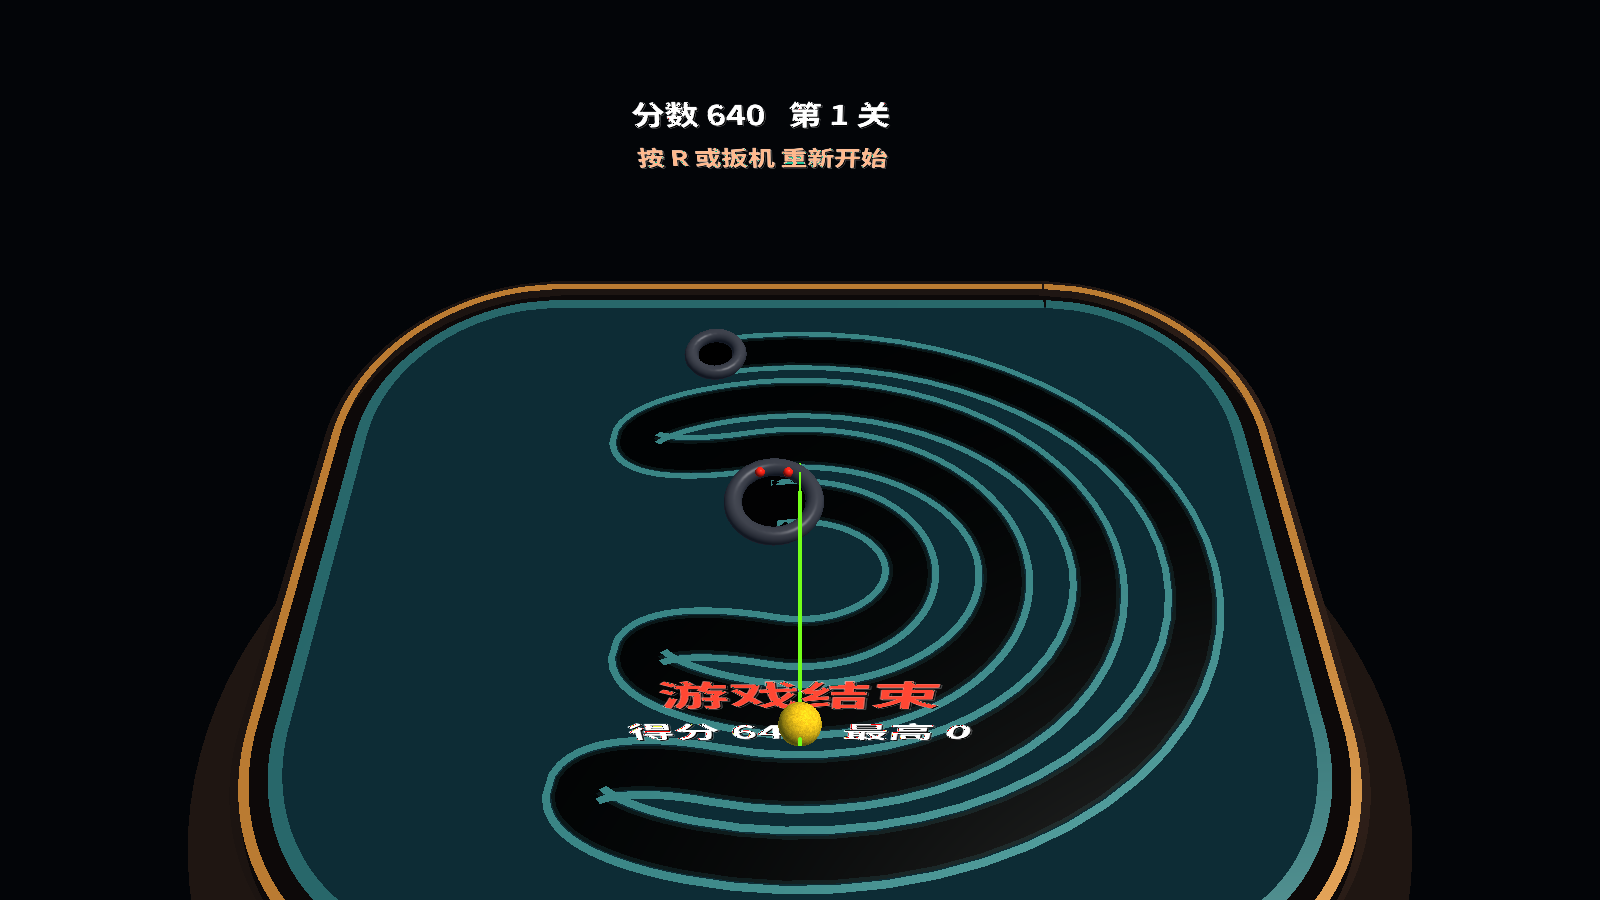
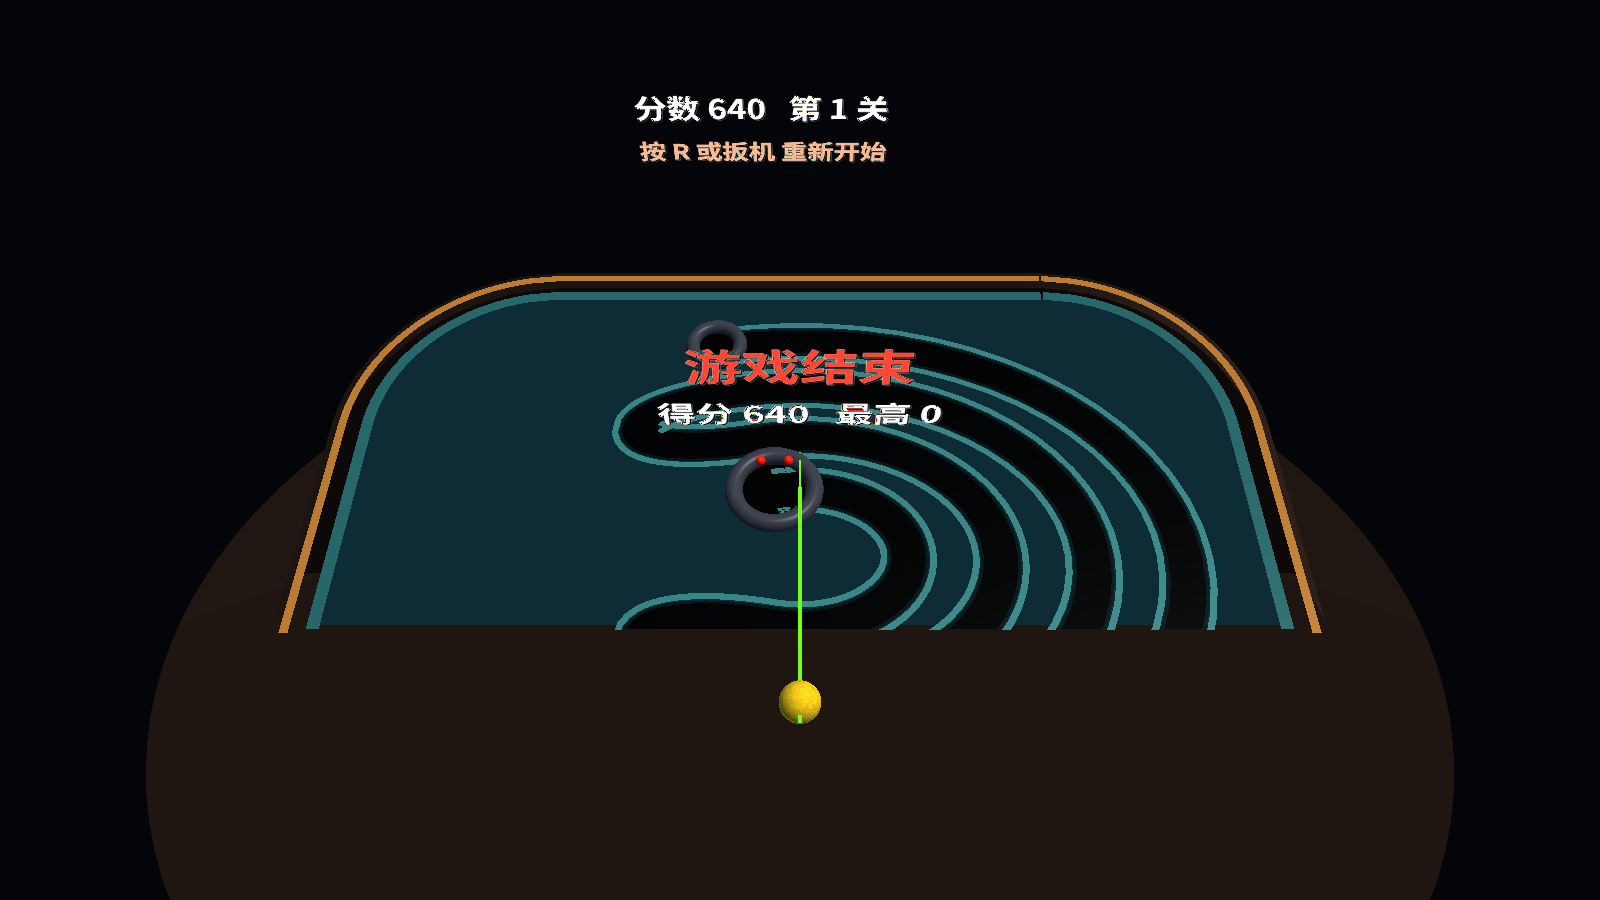
feat(vr): 桌面改用自有坐标系（原点=毡面中心，默认高 0.5 m、倾角 20°）
按用户定义重做摆放：
- 桌面原点取毡面中心；「桌面高度」= 原点到地面的距离，初始 0.50 m
- 倾角绕同一个原点旋转（去掉按近边当支点和 farRise 封顶），角度即设定值
- 桌子与盘面作为同一刚体一起转，默认 near 0.24 / centre 0.50 / far 0.76 m
- 右手摇杆直接改桌面高度，限幅 0.15–1.65 m（原 ±0.65/0.85 的行程）
- 调试行改为 height=，每关日志打印 table: height / tilt / felt near,centre,far / slab top
- 结算/结束文字从近边挪到毡面中部（近边现在是全盘最低处，文字会被盘沿挡住）
- 桌面相机目标下移（0.90→0.42），文档截图重新生成；README 记录坐标系定义

Changed region(s): [[0.0938, 0.28, 0.9062, 1.0], [0.375, 0.0933, 0.5625, 0.1867]]

diff --git a/cmd/zuma/main.go b/cmd/zuma/main.go
@@ -34,7 +34,7 @@ type app struct {
 	board        mgl32.Mat4
 	boardInv     mgl32.Mat4
 	placedBoard  game.Board
-	sceneLift    float32 // right stick: whole scene up/down, metres
+	tableY       float32 // table height: floor to the table origin, metres
 	winAdvanceAt float64 // win screen: when the next level loads
 	tiltDeg      float32 // left stick: board tilt, degrees
 	lastAimT     float64
@@ -84,12 +84,17 @@ func pressForward(d mgl32.Vec3, deg float32) mgl32.Vec3 {
 }
 
 const (
-	vrBoardY     = 0.86
-	vrBoardZ     = -1.55
-	vrBoardScale = 0.55
+	// The table has its own frame. Its origin is the centre of the felt; the
+	// height below is the distance from that origin to the floor, the right
+	// stick moves it, and the tilt turns the whole table about the same origin.
+	tableHeight0 = 0.50
+	tableMinY    = 0.15
+	tableMaxY    = 1.65
+	tableZ       = -1.55
+	tableScale   = 0.55
 	// The playfield leans toward the player: the near edge stays on the table
 	// and the far edge rises, like a pinball table.
-	boardTiltDeg = 20
+	tableTiltDeg = 20
 	boardHingeZ  = 1.55
 )
 
@@ -175,7 +180,8 @@ func main() {
 	}
 	renderer.StartSplash(splashStart, *title)
 
-	a.tiltDeg = float32(boardTiltDeg)
+	a.tiltDeg = float32(tableTiltDeg)
+	a.tableY = tableHeight0
 	a.placeBoard()
 
 	// Paint the loading cover before SteamVR comes up: vr.Init blocks for a
@@ -427,7 +433,10 @@ func cameraVP(cam camera, w, h int) (mgl32.Mat4, mgl32.Vec3) {
 	if w == 0 || h == 0 {
 		w, h = 1, 1
 	}
-	target := mgl32.Vec3{0, 0.90, -0.15}
+	// The desktop window renders the board in its own frame (no table offset),
+	// tilted about its centre; the target sits below the origin so the felt
+	// stays framed now that the tilt no longer lifts the board.
+	target := mgl32.Vec3{0, 0.42, -0.15}
 	cp := math.Cos(cam.pitch)
 	eye := mgl32.Vec3{
 		target[0] + float32(cam.dist*cp*math.Sin(cam.yaw)),
@@ -470,7 +479,7 @@ func (a *app) renderMirror(now float64) {
 		a.r.DrawSplash(proj.Mul4(view), render.SplashPanel(), now)
 		return
 	}
-	a.r.DrawStatic(proj.Mul4(view), a.tableWorld)
+	a.r.DrawStatic(proj.Mul4(view), a.board)
 	a.r.Draw(proj.Mul4(view), cam, a.board, a.g, now, a.aimO, a.aimD, a.aimOK, a.handPose, a.handPoseOK)
 }
 
@@ -606,8 +615,8 @@ func (a *app) updateVRAim(now float64) {
 		}
 		a.lastAimT = now
 		if v := st.AxisY; math.Abs(float64(v)) > 0.2 {
-			a.sceneLift += v * liftSpeed * float32(dt)
-			a.sceneLift = float32(math.Max(-0.65, math.Min(0.85, float64(a.sceneLift))))
+			a.tableY += v * liftSpeed * float32(dt)
+			a.tableY = float32(math.Max(tableMinY, math.Min(tableMaxY, float64(a.tableY))))
 			a.placeBoard()
 		}
 		// Left stick up/down trims the board tilt: up flattens, down steepens.
@@ -658,36 +667,28 @@ func (a *app) updateVRAim(now float64) {
 	a.logVR(now, st, ok, dev)
 }
 
-// placeBoard builds the board transform for the current level. The tilt pivots
-// on the board's own near edge, so the felt always meets the table no matter how
-// big the random board is; the angle is capped so a big board does not push its
-// far edge up towards eye height.
+// placeBoard builds the table frame for the current level: the table's origin
+// is the centre of the felt, at a.tableY above the floor, and the tilt turns
+// the whole table (slab and playfield alike) about that origin. The table is
+// one rigid body, so the felt can never sink into its own slab.
 func (a *app) placeBoard() {
 	bd := a.g.Board
-	hinge := bd.HalfH()
 	deg := a.tiltDeg
-	if hinge > 0.01 {
-		const farRise = 0.85 // metres, the height the first tilted board gave
-		if s := farRise / (2 * hinge * vrBoardScale); s < 1 {
-			if lim := float32(math.Asin(float64(s)) * 180 / math.Pi); lim < deg {
-				deg = lim
-			}
-		}
-	}
-	tilt := mgl32.Translate3D(0, 0, hinge).
-		Mul4(mgl32.HomogRotate3DX(mgl32.DegToRad(deg))).
-		Mul4(mgl32.Translate3D(0, 0, -hinge))
-	a.tableWorld = mgl32.Translate3D(0, vrBoardY+a.sceneLift, vrBoardZ).
-		Mul4(mgl32.Scale3D(vrBoardScale, vrBoardScale, vrBoardScale))
+	tilt := mgl32.HomogRotate3DX(mgl32.DegToRad(deg))
 	a.tilt = tilt
-	a.board = a.tableWorld.Mul4(tilt)
+	a.tableWorld = mgl32.Translate3D(0, a.tableY, tableZ).
+		Mul4(tilt).
+		Mul4(mgl32.Scale3D(tableScale, tableScale, tableScale))
+	// With the origin at the felt's centre the board and the table share one
+	// frame: there is no hinge offset left to apply.
+	a.board = a.tableWorld
 	a.boardInv = a.board.Inv()
 	if bd != a.placedBoard {
-		near := a.board.Mul4x1(mgl32.Vec4{0, 0, hinge, 1}).Y()
-		centre := a.board.Mul4x1(mgl32.Vec4{0, 0, 0, 1}).Y()
-		far := a.board.Mul4x1(mgl32.Vec4{0, 0, -hinge, 1}).Y()
-		log.Printf("board %.2fx%.2f: tilt %.1f deg, felt near %.2f m, centre %.2f m, far %.2f m (table top %.2f m)",
-			bd.W, bd.H, deg, near, centre, far, vrBoardY+a.sceneLift-0.10*vrBoardScale)
+		half := bd.HalfH()
+		near := a.board.Mul4x1(mgl32.Vec4{0, 0, half, 1}).Y()
+		far := a.board.Mul4x1(mgl32.Vec4{0, 0, -half, 1}).Y()
+		log.Printf("table %.2fx%.2f: height %.2f m, tilt %.1f deg, felt near %.2f / centre %.2f / far %.2f m, slab top %.2f m",
+			bd.W, bd.H, a.tableY, deg, near, a.tableY, far, a.tableY-0.10*tableScale)
 	}
 	a.placedBoard = bd
 }
@@ -742,7 +743,7 @@ func (a *app) logVR(now float64, st vr.ControllerState, rightOK bool, dev uint32
 	if a.handPoseOK {
 		devO = fmt.Sprintf("(%.2f,%.2f,%.2f)", a.handPose[12], a.handPose[13], a.handPose[14])
 	}
-	log.Printf("vr head=%s dev=%d devO=%s left=%v right=%v aim=%s trig=%.2f btn=%v lift=%.2f tilt=%.1f frames=%d", hp, dev, devO, leftOK, rightOK, aim, st.TriggerAxis, st.Trigger, a.sceneLift, a.tiltDeg, a.vrFrames)
+	log.Printf("vr head=%s dev=%d devO=%s left=%v right=%v aim=%s trig=%.2f btn=%v height=%.2f tilt=%.1f frames=%d", hp, dev, devO, leftOK, rightOK, aim, st.TriggerAxis, st.Trigger, a.tableY, a.tiltDeg, a.vrFrames)
 	a.vrFrames = 0
 }
 

diff --git a/internal/render/render.go b/internal/render/render.go
@@ -835,7 +835,10 @@ func (r *Renderer) drawHUD(vp mgl32.Mat4, world mgl32.Mat4, g *game.Game, now fl
 	}
 	r.drawText(vp, base, -0.74, 0.585, 38, line2, alignLeft, col2)
 
-	overlay := world.Mul4(mgl32.Translate3D(0, 0, 0.92))
+	// The win/lose overlay floats over the middle of the felt: with the table
+	// tilting about its own centre, the near edge is the lowest part of the
+	// playfield and text parked there ends up face-on to the table's front.
+	overlay := world.Mul4(mgl32.Translate3D(0, 0, -0.25))
 	switch g.State {
 	case game.StateWon:
 		r.drawText(vp, overlay, 0, 1.06, 64, fmt.Sprintf("第 %d 关 通过!", g.Level), alignCenter, rgba(1.0, 0.93, 0.55, 1))

diff --git a/README.md b/README.md
@@ -24,10 +24,16 @@ start-up.
 - **Hand-tracked aiming**: the launcher sits in the right hand; aim by pointing
   the controller, fire with the trigger. The ball is a real projectile with
   gravity, not a raycast hit.
-- **Room-scale presentation**: the board stands on a table in front of you,
+- **Room-scale presentation**: the playfield stands on a table in front of you,
   tilted back 20° like a pinball playfield; the title screen is anchored at a
   fixed spot in the room, so looking around moves the view past it instead of
   dragging it along.
+- **The table frame**: the table has its own coordinate system — its origin is
+  the centre of the felt, "table height" is the distance from that origin down
+  to the floor (**0.50 m** by default), and the tilt turns the whole table about
+  the same origin (**20°** by default). Both are on the controller: the right
+  stick moves the height between 0.15 m and 1.65 m, the left stick trims the
+  tilt between flat and 35°.
 - The desktop window is the development/mirror view of the left eye.
 
 ### Screenshots
@@ -48,8 +54,8 @@ the right hand and its beam.)*
 | Fire | Right trigger | Left click / `Space` |
 | Restart after a loss | Right trigger | `R` |
 | Load the next level after a win | Right trigger | `Space` / left click |
-| Raise / lower the whole scene | Right stick up / down | — |
-| Tilt the board | Left stick up / down (up = flatter) | — |
+| Raise / lower the table (height above the floor) | Right stick up / down | — |
+| Tilt the table (about its centre) | Left stick up / down (up = flatter) | — |
 | Quit | SteamVR menu | `Esc` |
 
 The loaded bead rides at the controller; there is no reticle at the end of the
@@ -198,7 +204,7 @@ changing any on-screen text.
   射线末端不画准星——射线停在哪颗球上就插在哪。
 - **场景**：盘面立在面前的桌上，像弹球台一样后仰 20°；标题页固定在房间里某个
   坐标，转头不会拖着它走。桌面窗口只是左眼的调试镜像。
-- 右手摇杆上下推可以整体升降场景（桌子、盘面、HUD 一起动，±0.65/0.85 m）；左手摇杆上下调盘面倾角（向上更平、向下更陡，0–35°）。
+- 桌面有自己的坐标系：原点取毡面中心，**桌面高度＝原点到地面的距离（默认 0.50 m）**，倾角绕这个原点旋转（默认 20°）。右手摇杆上下调高度（0.15–1.65 m），左手摇杆上下调倾角（向上更平、向下更陡，0–35°）；桌子与盘面作为同一个刚体一起转，HUD 文字画在桌面平面上。
 - 过关后结算页会等你扣扳机：一击沿射线方向、20° 圆锥内随机角度喷出 30 颗各色球，
   就是普通的空射（同样速度、同样弹道），伴随一声「砰」，随后进入下一关。
 - 规则：线路/盘形每关随机（单线螺旋、最多两层环、迷宫/圆弧发卡、波浪发卡、
